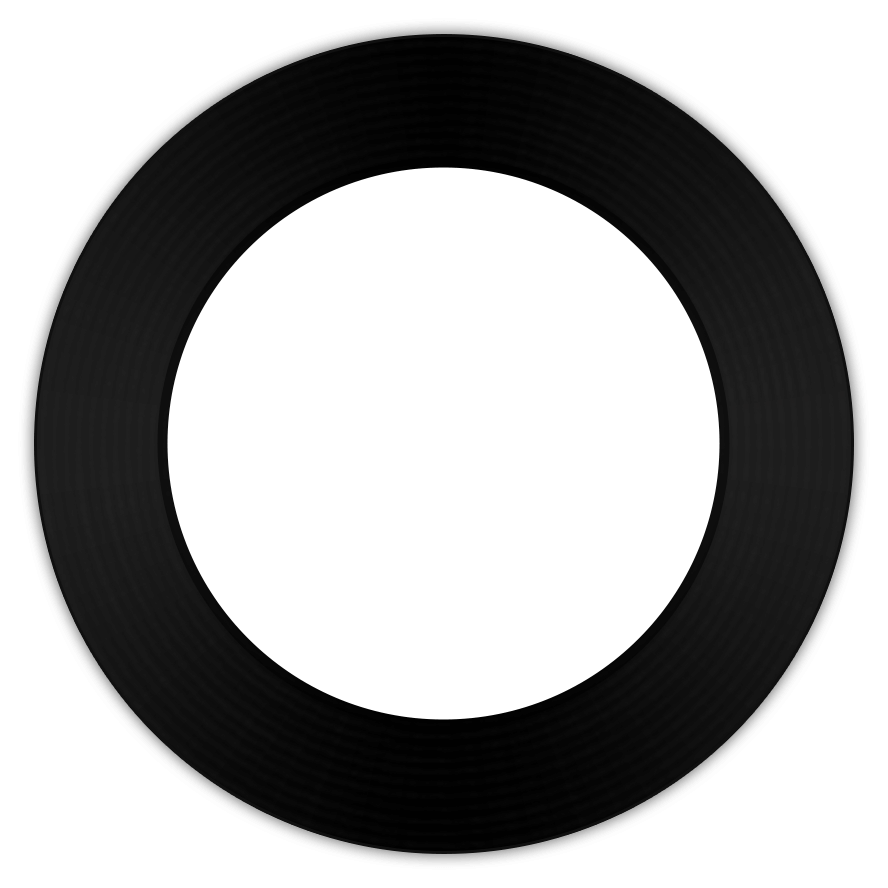
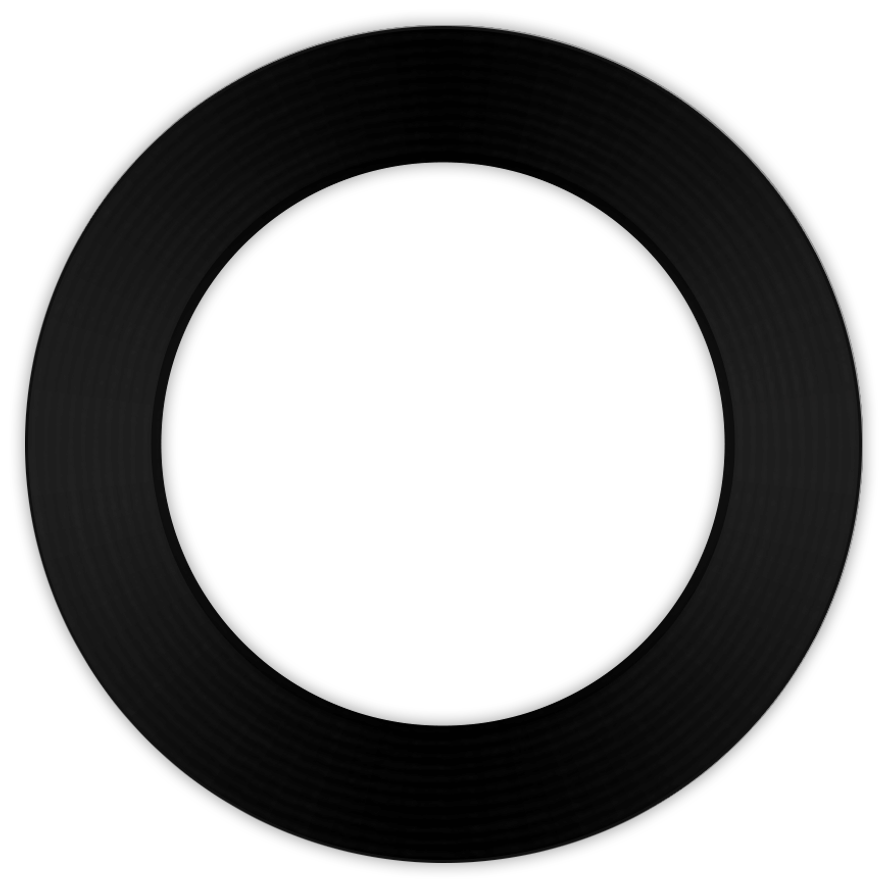
替换图片

diff --git a/src/views/player/Player.vue b/src/views/player/Player.vue
@@ -347,13 +347,13 @@ export default class Player extends Vue {
                     }
 
                     .light {
-                        background-image: url(../../assets/images/light_plus.png);
+                        /*background-image: url(../../assets/images/light_plus.png);*/
                         z-index: 2;
                     }
 
                     .plate {
                         background-image: url(../../assets/images/plate.png);
-                        background-image: url(../../assets/images/plate2.png);
+                        /*background-image: url(../../assets/images/plate2.png);*/
 
                         .img-box {
                             position: absolute;
